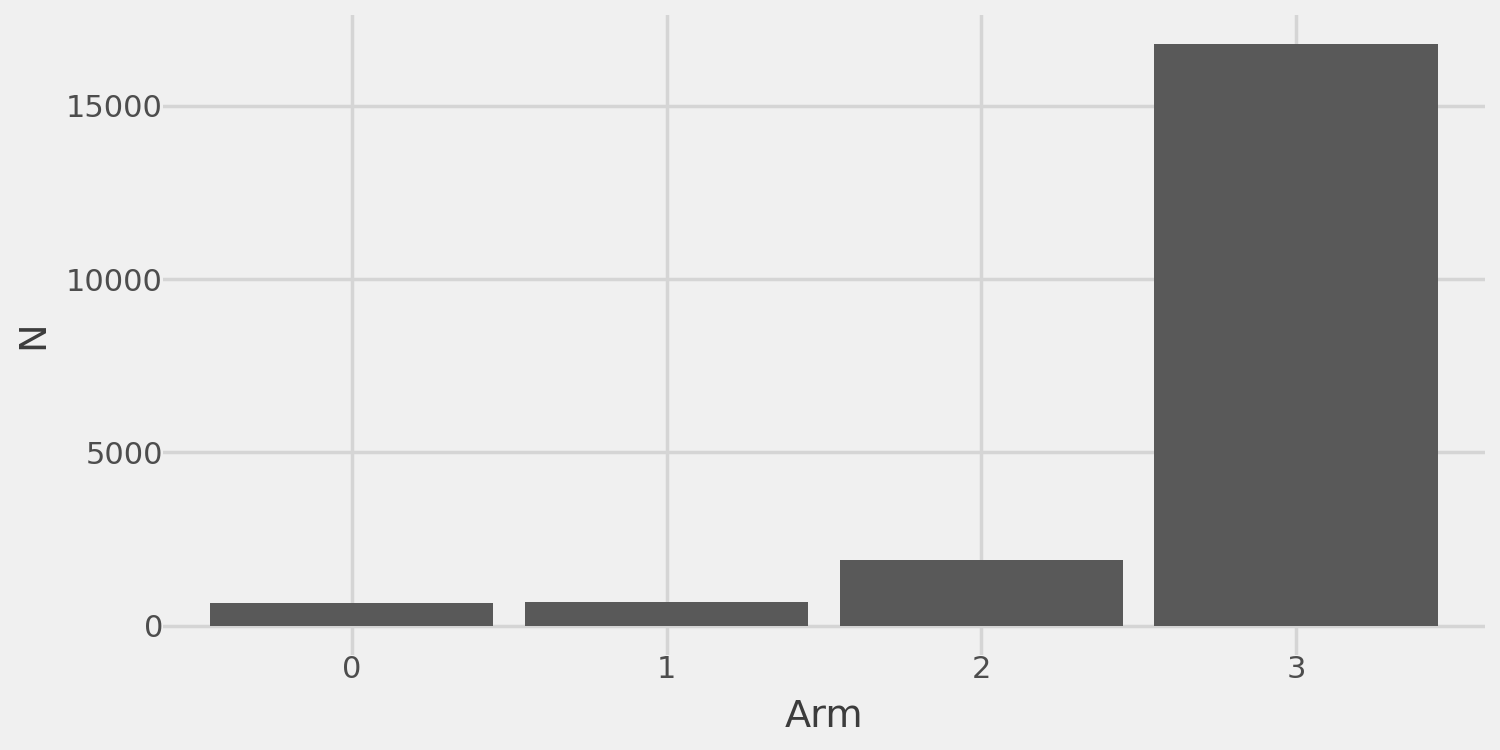
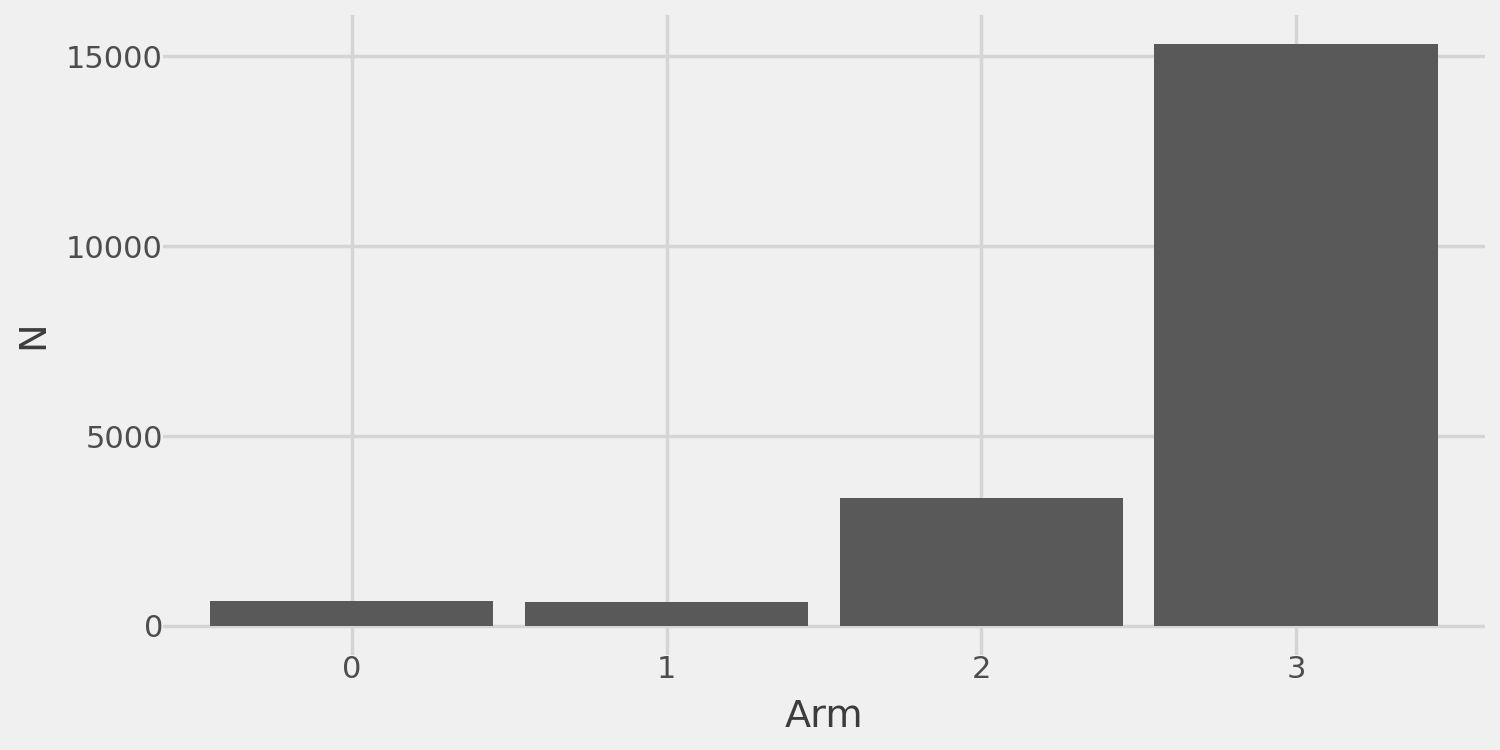
Deploying to gh-pages from @ dmolitor/pyssed@d8a823ce1fd36639f52424c39b78cd1c27262689 🚀

diff --git a/index.html b/index.html
@@ -202,7 +202,7 @@ window.Quarto = {
 <h2 class="anchored" data-anchor-id="usage">Usage</h2>
 <p>We’ll simulate an experiment with three treatment arms and one control arm using Thompson Sampling (TS) as the bandit algorithm. We’ll demonstrate how MAD enables unbiased ATE estimation for all treatments while maintaining valid confidence sequences.</p>
 <p>First, import the necessary packages:</p>
-<div id="c2e80378" class="cell" data-execution_count="2">
+<div id="636a008f" class="cell" data-execution_count="2">
 <div class="sourceCode cell-code" id="cb3"><pre class="sourceCode python code-with-copy"><code class="sourceCode python"><span id="cb3-1"><a href="#cb3-1" aria-hidden="true" tabindex="-1"></a><span class="im">import</span> numpy <span class="im">as</span> np</span>
 <span id="cb3-2"><a href="#cb3-2" aria-hidden="true" tabindex="-1"></a><span class="im">import</span> pandas <span class="im">as</span> pd</span>
 <span id="cb3-3"><a href="#cb3-3" aria-hidden="true" tabindex="-1"></a><span class="im">import</span> plotnine <span class="im">as</span> pn</span>
@@ -214,7 +214,7 @@ window.Quarto = {
 <section id="treatment-arm-outcomes" class="level3">
 <h3 class="anchored" data-anchor-id="treatment-arm-outcomes">Treatment arm outcomes</h3>
 <p>Next, define a function to generate outcomes (rewards) for each experiment arm:</p>
-<div id="4f6e7872" class="cell" data-execution_count="4">
+<div id="6974c7a8" class="cell" data-execution_count="4">
 <div class="sourceCode cell-code" id="cb4"><pre class="sourceCode python code-with-copy"><code class="sourceCode python"><span id="cb4-1"><a href="#cb4-1" aria-hidden="true" tabindex="-1"></a><span class="kw">def</span> reward_fn(arm: <span class="bu">int</span>) <span class="op">-&gt;</span> <span class="bu">float</span>:</span>
 <span id="cb4-2"><a href="#cb4-2" aria-hidden="true" tabindex="-1"></a>    values <span class="op">=</span> {</span>
 <span id="cb4-3"><a href="#cb4-3" aria-hidden="true" tabindex="-1"></a>        <span class="dv">0</span>: generator.binomial(<span class="dv">1</span>, <span class="fl">0.5</span>),  <span class="co"># Control arm</span></span>
@@ -239,7 +239,7 @@ window.Quarto = {
 </ul>
 <p>For full details, see the <code>pyssed.Bandit</code> documentation.</p>
 <p>The following is an example TS implementation:</p>
-<div id="41ed9bbe" class="cell" data-execution_count="5">
+<div id="1229738b" class="cell" data-execution_count="5">
 <div class="sourceCode cell-code" id="cb5"><pre class="sourceCode python code-with-copy"><code class="sourceCode python"><span id="cb5-1"><a href="#cb5-1" aria-hidden="true" tabindex="-1"></a><span class="kw">class</span> TSBernoulli(Bandit):</span>
 <span id="cb5-2"><a href="#cb5-2" aria-hidden="true" tabindex="-1"></a>    <span class="co">"""</span></span>
 <span id="cb5-3"><a href="#cb5-3" aria-hidden="true" tabindex="-1"></a><span class="co">    A class for implementing Thompson Sampling on Bernoulli data</span></span>
@@ -300,7 +300,7 @@ window.Quarto = {
 <p>For our MAD design, we need a function that takes the time step <span class="math inline">\(t\)</span> and computes a sequence converging to 0. The key requirement is that this sequence must decay slower than <span class="math inline">\(1/(t^{1/4})\)</span>.</p>
 <p>Intuitively, a sequence of <span class="math inline">\(1/t^0 = 1\)</span> corresponds to Bernoulli randomization, while a sequence of <span class="math inline">\(1/(t^{0.24})\)</span> closely follows the TS assignment policy.</p>
 <p>In this example, we use <span class="math inline">\(1/(t^{0.24})\)</span> as our sequence. Additionally, we estimate 95% confidence sequences, setting our test size <span class="math inline">\(\alpha=0.05\)</span>. We run the experiment for 20,000 iterations (<code>t_star = 20000</code>).</p>
-<div id="97bf9a1a" class="cell" data-execution_count="6">
+<div id="7d7a643f" class="cell" data-execution_count="6">
 <div class="sourceCode cell-code" id="cb6"><pre class="sourceCode python code-with-copy"><code class="sourceCode python"><span id="cb6-1"><a href="#cb6-1" aria-hidden="true" tabindex="-1"></a>experiment <span class="op">=</span> MAD(</span>
 <span id="cb6-2"><a href="#cb6-2" aria-hidden="true" tabindex="-1"></a>    bandit<span class="op">=</span>TSBernoulli(k<span class="op">=</span><span class="dv">4</span>, control<span class="op">=</span><span class="dv">0</span>, reward<span class="op">=</span>reward_fn),</span>
 <span id="cb6-3"><a href="#cb6-3" aria-hidden="true" tabindex="-1"></a>    alpha<span class="op">=</span><span class="fl">0.05</span>,</span>
@@ -313,17 +313,17 @@ window.Quarto = {
 <section id="point-estimates-and-confidence-bands" class="level3">
 <h3 class="anchored" data-anchor-id="point-estimates-and-confidence-bands">Point estimates and confidence bands</h3>
 <p>Now, to examine the results we can print a summary of the ATEs and their corresponding confidence sequences at the end of the experiment:</p>
-<div id="43a7859f" class="cell" data-execution_count="7">
+<div id="28a8807a" class="cell" data-execution_count="7">
 <div class="sourceCode cell-code" id="cb7"><pre class="sourceCode python code-with-copy"><code class="sourceCode python"><span id="cb7-1"><a href="#cb7-1" aria-hidden="true" tabindex="-1"></a>experiment.summary()</span></code><button title="Copy to Clipboard" class="code-copy-button"><i class="bi"></i></button></pre></div>
 <div class="cell-output cell-output-stdout">
 <pre><code>Treatment effect estimates:
-- Arm 1: 0.002 (-0.14609, 0.14981)
-- Arm 2: 0.147 (0.01869, 0.27602)
-- Arm 3: 0.171 (0.06575, 0.27687)</code></pre>
+- Arm 1: 0.039 (-0.11033, 0.18865)
+- Arm 2: 0.148 (0.0285, 0.26773)
+- Arm 3: 0.179 (0.07498, 0.28391)</code></pre>
 </div>
 </div>
 <p>We can also extract this summary into a pandas DataFrame:</p>
-<div id="5c37e4f9" class="cell" data-execution_count="8">
+<div id="82d675dd" class="cell" data-execution_count="8">
 <div class="sourceCode cell-code" id="cb9"><pre class="sourceCode python code-with-copy"><code class="sourceCode python"><span id="cb9-1"><a href="#cb9-1" aria-hidden="true" tabindex="-1"></a>experiment.estimates()</span></code><button title="Copy to Clipboard" class="code-copy-button"><i class="bi"></i></button></pre></div>
 <div class="cell-output cell-output-display" data-execution_count="8">
 <table class="dataframe caption-top table table-sm table-striped small" data-quarto-postprocess="true" data-border="1">
@@ -340,23 +340,23 @@ window.Quarto = {
 <tr class="odd">
 <td data-quarto-table-cell-role="th">0</td>
 <td>1</td>
-<td>0.001858</td>
-<td>-0.146092</td>
-<td>0.149809</td>
+<td>0.039156</td>
+<td>-0.110334</td>
+<td>0.188645</td>
 </tr>
 <tr class="even">
 <td data-quarto-table-cell-role="th">1</td>
 <td>2</td>
-<td>0.147355</td>
-<td>0.018686</td>
-<td>0.276024</td>
+<td>0.148111</td>
+<td>0.028496</td>
+<td>0.267725</td>
 </tr>
 <tr class="odd">
 <td data-quarto-table-cell-role="th">2</td>
 <td>3</td>
-<td>0.171309</td>
-<td>0.065746</td>
-<td>0.276872</td>
+<td>0.179445</td>
+<td>0.074981</td>
+<td>0.283909</td>
 </tr>
 </tbody>
 </table>
@@ -368,7 +368,7 @@ window.Quarto = {
 <section id="plotting-results" class="level3">
 <h3 class="anchored" data-anchor-id="plotting-results">Plotting results</h3>
 <p>We can also visualize the ATE estimates and confidence sequences for each treatment arm over time.</p>
-<div id="949f62cc" class="cell" data-execution_count="9">
+<div id="af440136" class="cell" data-execution_count="9">
 <div class="sourceCode cell-code" id="cb10"><pre class="sourceCode python code-with-copy"><code class="sourceCode python"><span id="cb10-1"><a href="#cb10-1" aria-hidden="true" tabindex="-1"></a>(</span>
 <span id="cb10-2"><a href="#cb10-2" aria-hidden="true" tabindex="-1"></a>    experiment.plot_ate()</span>
 <span id="cb10-3"><a href="#cb10-3" aria-hidden="true" tabindex="-1"></a>    <span class="op">+</span> pn.coord_cartesian(ylim<span class="op">=</span>(<span class="op">-</span><span class="fl">.5</span>, <span class="fl">1.0</span>))</span>
@@ -389,7 +389,7 @@ window.Quarto = {
 </div>
 <p>The ATE estimates converge toward the ground truth, and the confidence sequences maintain valid coverage!</p>
 <p>We can also examine the algorithm’s sample assignment strategy over time.</p>
-<div id="73e43c3e" class="cell" data-execution_count="10">
+<div id="097fe6a5" class="cell" data-execution_count="10">
 <div class="sourceCode cell-code" id="cb11"><pre class="sourceCode python code-with-copy"><code class="sourceCode python"><span id="cb11-1"><a href="#cb11-1" aria-hidden="true" tabindex="-1"></a>experiment.plot_sample_assignment()</span></code><button title="Copy to Clipboard" class="code-copy-button"><i class="bi"></i></button></pre></div>
 <div class="cell-output cell-output-display">
 <div>
@@ -401,7 +401,7 @@ window.Quarto = {
 </div>
 <p>Due to the TS algorithm, most samples go to the optimal Arm 3 and secondary Arm 2, with some random exploration in Arms 0 and 1.</p>
 <p>Similarly, we can plot the total sample assignments per arm.</p>
-<div id="26e3e8a9" class="cell" data-execution_count="11">
+<div id="67b1216f" class="cell" data-execution_count="11">
 <div class="sourceCode cell-code" id="cb12"><pre class="sourceCode python code-with-copy"><code class="sourceCode python"><span id="cb12-1"><a href="#cb12-1" aria-hidden="true" tabindex="-1"></a>experiment.plot_n()</span></code><button title="Copy to Clipboard" class="code-copy-button"><i class="bi"></i></button></pre></div>
 <div class="cell-output cell-output-display">
 <div>
@@ -415,7 +415,7 @@ window.Quarto = {
 <section id="equivalence-to-a-completely-randomized-design" class="level3">
 <h3 class="anchored" data-anchor-id="equivalence-to-a-completely-randomized-design">Equivalence to a completely randomized design</h3>
 <p>As noted above, setting the time-diminishing sequence <span class="math inline">\(\delta_t = 1/t^0 = 1\)</span> results in a fully randomized design. We can easily demonstrate this:</p>
-<div id="550cc9ee" class="cell" data-execution_count="12">
+<div id="4b7836f9" class="cell" data-execution_count="12">
 <div class="sourceCode cell-code" id="cb13"><pre class="sourceCode python code-with-copy"><code class="sourceCode python"><span id="cb13-1"><a href="#cb13-1" aria-hidden="true" tabindex="-1"></a>exp_bernoulli <span class="op">=</span> MAD(</span>
 <span id="cb13-2"><a href="#cb13-2" aria-hidden="true" tabindex="-1"></a>    bandit<span class="op">=</span>TSBernoulli(k<span class="op">=</span><span class="dv">4</span>, control<span class="op">=</span><span class="dv">0</span>, reward<span class="op">=</span>reward_fn),</span>
 <span id="cb13-3"><a href="#cb13-3" aria-hidden="true" tabindex="-1"></a>    alpha<span class="op">=</span><span class="fl">0.05</span>,</span>
@@ -425,7 +425,7 @@ window.Quarto = {
 <span id="cb13-7"><a href="#cb13-7" aria-hidden="true" tabindex="-1"></a>exp_bernoulli.fit(verbose<span class="op">=</span><span class="va">False</span>)</span></code><button title="Copy to Clipboard" class="code-copy-button"><i class="bi"></i></button></pre></div>
 </div>
 <p>As before, we can plot the convergence of the estimated ATEs to the ground truth:</p>
-<div id="efac5c00" class="cell" data-execution_count="13">
+<div id="1a9c4f18" class="cell" data-execution_count="13">
 <div class="sourceCode cell-code" id="cb14"><pre class="sourceCode python code-with-copy"><code class="sourceCode python"><span id="cb14-1"><a href="#cb14-1" aria-hidden="true" tabindex="-1"></a>(</span>
 <span id="cb14-2"><a href="#cb14-2" aria-hidden="true" tabindex="-1"></a>    exp_bernoulli.plot_ate()</span>
 <span id="cb14-3"><a href="#cb14-3" aria-hidden="true" tabindex="-1"></a>    <span class="op">+</span> pn.coord_cartesian(ylim<span class="op">=</span>(<span class="op">-</span><span class="fl">.1</span>, <span class="fl">0.6</span>))</span>
@@ -445,7 +445,7 @@ window.Quarto = {
 </div>
 </div>
 <p>And we can verify fully random assignment:</p>
-<div id="0a73efc7" class="cell" data-execution_count="14">
+<div id="be3f99ec" class="cell" data-execution_count="14">
 <div class="sourceCode cell-code" id="cb15"><pre class="sourceCode python code-with-copy"><code class="sourceCode python"><span id="cb15-1"><a href="#cb15-1" aria-hidden="true" tabindex="-1"></a>exp_bernoulli.plot_n()</span></code><button title="Copy to Clipboard" class="code-copy-button"><i class="bi"></i></button></pre></div>
 <div class="cell-output cell-output-display">
 <div>
